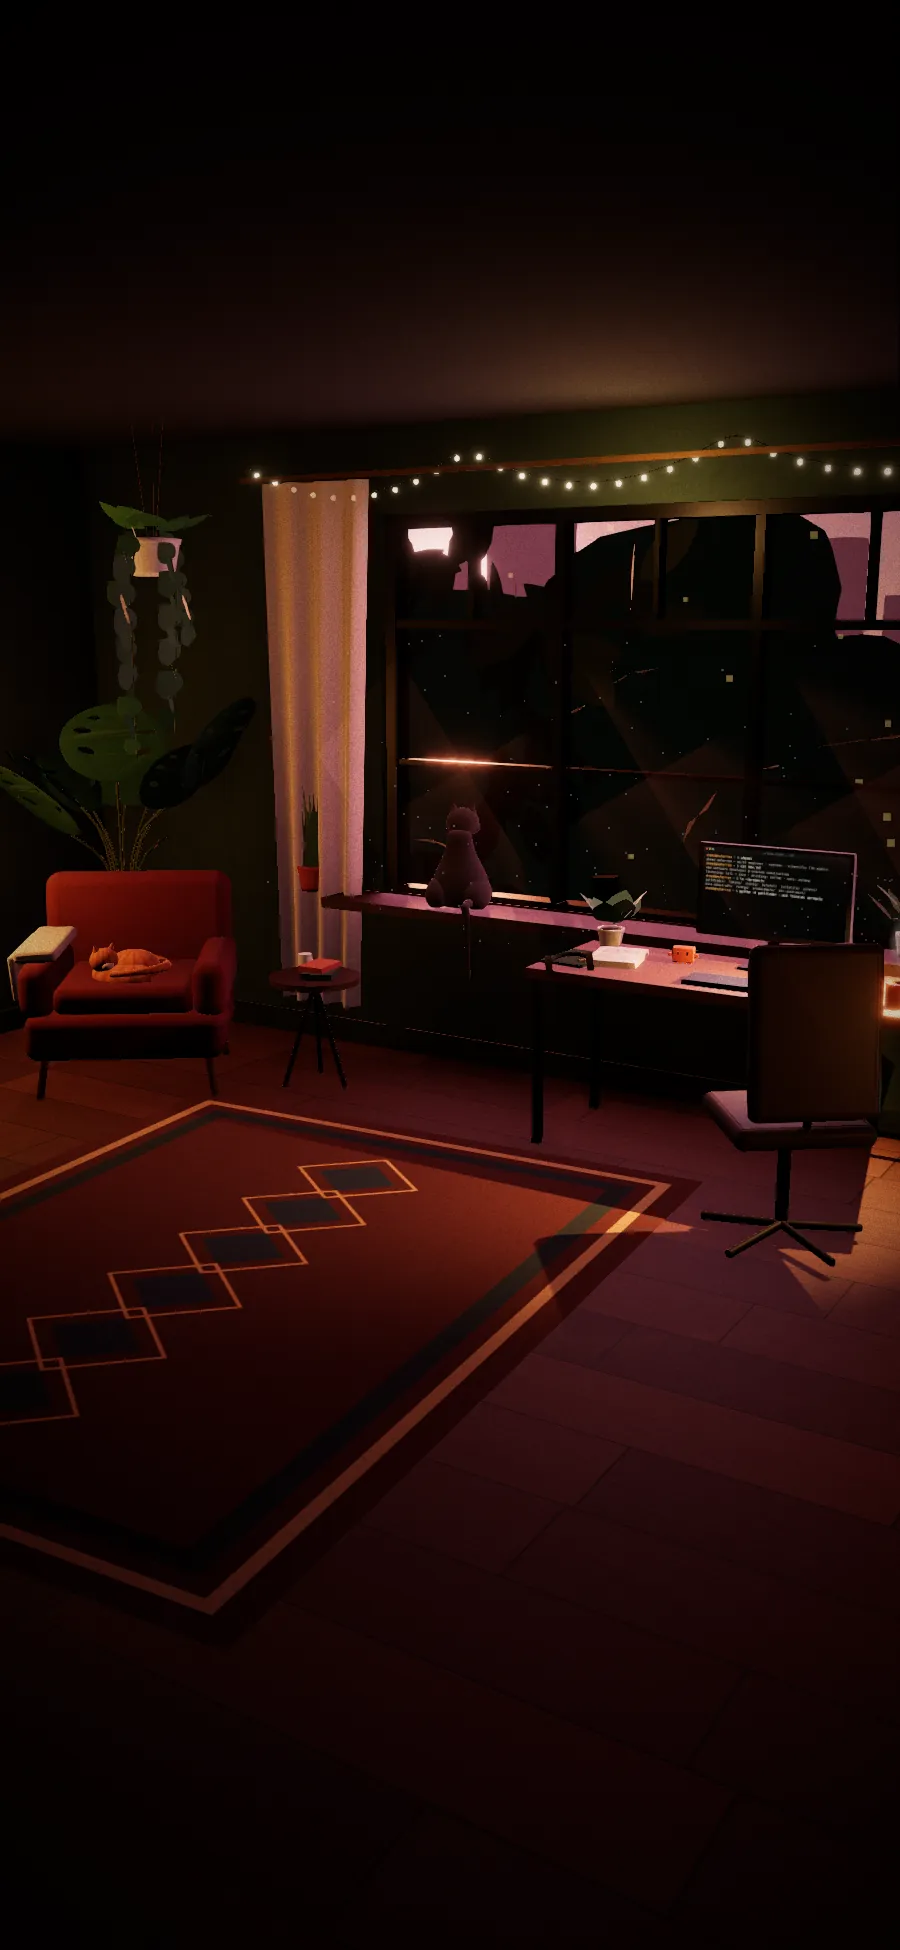
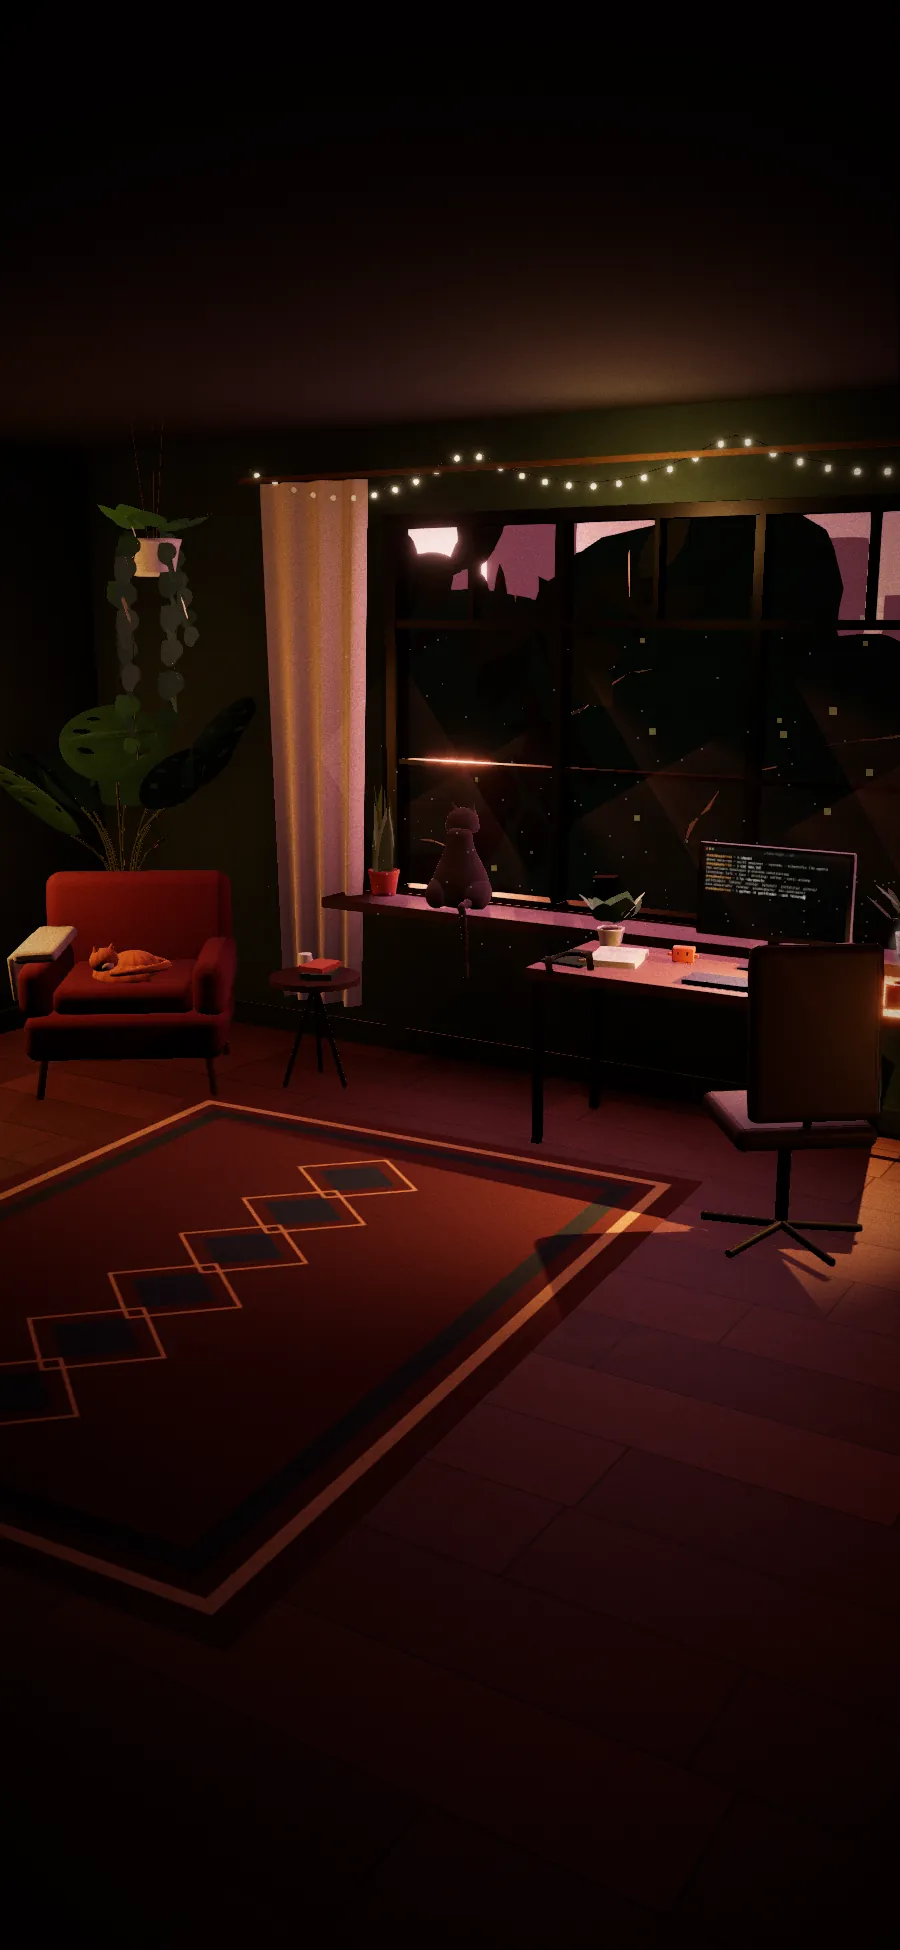
String lights toggle, radio card opposite the panel, headphones on the desk, plainer meta and away titles

diff --git a/src/scene/StringLights.jsx b/src/scene/StringLights.jsx
@@ -2,6 +2,8 @@ import { useLayoutEffect, useMemo, useRef } from 'react'
 import { useFrame } from '@react-three/fiber'
 import { CatmullRomCurve3, Color, Object3D, TubeGeometry, Vector3 } from 'three'
 import { useLive } from './live'
+import Hotspot from './Hotspot'
+import { lampLevel, toggleLamp } from './lamps'
 
 const dummy = new Object3D()
 
@@ -31,6 +33,7 @@ function Strand({ anchors, sag, bulbs, seed }) {
   const ref = useRef()
   const curve = useMemo(() => strand(anchors, sag), [anchors, sag])
   const wire = useMemo(() => new TubeGeometry(curve, 160, 0.0025, 4), [curve])
+  const hit = useMemo(() => new TubeGeometry(curve, 60, 0.07, 6), [curve])
   const items = useMemo(() => Array.from({ length: bulbs }, (_, i) => ({ t: (i + 0.5) / bulbs, phase: (i * 1.7 + seed) % 6.28, speed: 0.6 + ((i * 7) % 5) * 0.25 })), [bulbs, seed])
   const tmp = useMemo(() => new Vector3(), [])
   const color = useMemo(() => new Color(), [])
@@ -46,7 +49,8 @@ function Strand({ anchors, sag, bulbs, seed }) {
   }, [items, curve, tmp])
   useFrame(() => {
     const t = live.time
-    const base = 0.35 + live.lamps * 2.6
+    const on = lampLevel('lampStrings')
+    const base = 0.05 + on * (0.3 + live.lamps * 2.6)
     items.forEach((it, i) => {
       const tw = 0.75 + 0.25 * Math.sin(t * it.speed + it.phase)
       color.setRGB(1, 0.72, 0.4).multiplyScalar(base * tw)
@@ -63,16 +67,17 @@ function Strand({ anchors, sag, bulbs, seed }) {
         <sphereGeometry args={[0.014, 10, 8]} />
         <meshBasicMaterial toneMapped={false} />
       </instancedMesh>
+      <mesh geometry={hit} visible={false} />
     </group>
   )
 }
 
 export default function StringLights() {
   return (
-    <group>
+    <Hotspot id="lampStrings" action={() => toggleLamp('lampStrings')}>
       {STRANDS.map((s, i) => (
         <Strand key={i} {...s} seed={i * 3.1} />
       ))}
-    </group>
+    </Hotspot>
   )
 }

diff --git a/index.html b/index.html
@@ -28,24 +28,24 @@
 
     <meta property="og:type" content="profile" />
     <meta property="og:site_name" content="muharram.dev" />
-    <meta property="og:title" content="ahmed muharram's room" />
+    <meta property="og:title" content="ahmed muharram" />
     <meta
       property="og:description"
-      content="i build llm agents and search systems. come hang out in my little room on the internet, pet the cats, put on some lofi, and look around my projects, research and writing."
+      content="ai/ml engineer in cairo. i build llm agents and search systems, and studied computer science at penn."
     />
     <meta property="og:url" content="https://muharram.dev/" />
     <meta property="og:image" content="https://muharram.dev/og-image.png" />
     <meta property="og:image:width" content="1200" />
     <meta property="og:image:height" content="630" />
-    <meta property="og:image:alt" content="a cat sitting on a sunny windowsill in a cozy lofi room, with the text ahmed muharram" />
+    <meta property="og:image:alt" content="ahmed muharram, with a cat sitting on a sunny windowsill" />
     <meta property="profile:first_name" content="Ahmed" />
     <meta property="profile:last_name" content="Muharram" />
 
     <meta name="twitter:card" content="summary_large_image" />
-    <meta name="twitter:title" content="ahmed muharram's room" />
+    <meta name="twitter:title" content="ahmed muharram" />
     <meta
       name="twitter:description"
-      content="i build llm agents and search systems. come hang out in my little room on the internet."
+      content="ai/ml engineer in cairo. i build llm agents and search systems."
     />
     <meta name="twitter:image" content="https://muharram.dev/og-image.png" />
 

diff --git a/src/App.jsx b/src/App.jsx
@@ -1,7 +1,7 @@
 import { lazy, Suspense, useEffect, useState } from 'react'
 import Mobile from './ui/Mobile'
 import { ui } from './lib/store'
-import { PRESETS } from './lib/time'
+import { CITY, PRESETS, formatClock, zonedNow } from './lib/time'
 import { useSky } from './lib/useSky'
 import { setFavicon } from './lib/favicon'
 
@@ -33,7 +33,11 @@ function detect() {
 const timeParam = new URLSearchParams(window.location.search).get('time')
 if (PRESETS.some((p) => p.id === timeParam)) ui.set({ timeMode: timeParam })
 
-const AWAY = ['come back, the cats miss you', 'the kettle is still on', 'still here, still lofi']
+function awayTitle(n) {
+  if (ui.get().radio) return '♪ the radio is still on · ahmed muharram'
+  if (n % 2) return `${formatClock(zonedNow().decimal)} in ${CITY.toLowerCase()} · ahmed muharram`
+  return 'the cats are napping · ahmed muharram'
+}
 
 function useTabDressing() {
   const phase = useSky().state.phase
@@ -44,7 +48,7 @@ function useTabDressing() {
     const change = () => {
       if (document.hidden) {
         saved = document.title
-        document.title = AWAY[n++ % AWAY.length]
+        document.title = awayTitle(n++)
       } else if (saved) {
         document.title = saved
         saved = null

diff --git a/src/data/site.js b/src/data/site.js
@@ -39,7 +39,7 @@ export const ABOUT = {
   paragraphs: [
     "i finished my bachelor's and master's in computer and information science at penn in may 2026. i went there on the onsi sawiris scholarship.",
     "most of my work sits where ai meets regular systems engineering. i care a lot about software being reliable and easy to understand for the people who actually use it.",
-    "lately that has meant tool-calling llm agents for scientific work, and ai products that keep people's data private. i've done both research and industry work, and i like teams that sweat the details but still aim big.",
+    "lately that has meant tool-calling llm agents for scientific work, and ai products that keep people's data private. i've worked in both research and industry, and i like working with people who care about doing things well.",
   ],
   facts: [
     { k: 'now', v: 'r&d software developer at orascom construction' },

diff --git a/src/scene/Lights.jsx b/src/scene/Lights.jsx
@@ -47,7 +47,7 @@ export default function Lights({ quality }) {
     windowFill.current.intensity = 2.5 + live.ambientIntensity * 9
     deskLamp.current.intensity = (6 + lamps * 22) * lampLevel('lampDesk')
     floorLamp.current.intensity = lamps * 9 * lampLevel('lampFloor')
-    strings.current.intensity = 0.4 + lamps * 2.2
+    strings.current.intensity = (0.4 + lamps * 2.2) * lampLevel('lampStrings')
     monitor.current.intensity = 1.6 + lamps * 1.2
     pc.current.intensity = 0.25 + lamps * 0.5
     gl.toneMappingExposure = live.exposure

diff --git a/src/scene/Clawd.jsx b/src/scene/Clawd.jsx
@@ -5,7 +5,7 @@ import { MeshStandardMaterial } from 'three'
 import Hotspot from './Hotspot'
 import { chirp } from '../lib/audio'
 
-const LINES = ['hi! ✦', 'shipping it?', 'the cats approve', 'one more commit…', 'lofi + code', 'nice room :)', 'thanks for having me']
+const LINES = ['hi! ✦', 'shipping it?', 'the cats approve', 'one more commit…', 'lofi + code', 'nice room :)', 'i live here now']
 
 export default function Clawd({ position = [0.34, 0.78, -2.48], rotation = [0, 0.25, 0], scale = 1 }) {
   const body = useRef()

diff --git a/src/scene/Desk.jsx b/src/scene/Desk.jsx
@@ -191,7 +191,7 @@ function Headphones() {
   const m = useMaterials()
   const pad = useMemo(() => new MeshStandardMaterial({ color: '#2b2622', roughness: 0.8 }), [])
   return (
-    <group position={[-0.02, TOP + 0.03, -2.12]} rotation={[-Math.PI / 2 + 0.25, 0, 0.5]}>
+    <group position={[-0.04, TOP + 0.046, -2.15]} rotation={[-Math.PI / 2 + 0.25, 0, 0.5]}>
       <mesh material={m.plastic} castShadow>
         <torusGeometry args={[0.085, 0.009, 8, 24, Math.PI]} />
       </mesh>

diff --git a/src/ui/Chrome.jsx b/src/ui/Chrome.jsx
@@ -55,7 +55,7 @@ export function HoverLabel() {
   }, [])
   return (
     <div ref={ref} className={`hover-label${hovered ? ' is-visible' : ''}`} aria-hidden="true">
-      {hovered ? (HOTSPOT_LABELS[hovered] === 'lamp' ? `turn ${lampsOff[hovered] ? 'on' : 'off'} the lamp` : HOTSPOT_LABELS[hovered]) : ''}
+      {hovered ? (hovered.startsWith('lamp') ? `turn ${lampsOff[hovered] ? 'on' : 'off'} ${HOTSPOT_LABELS[hovered]}` : HOTSPOT_LABELS[hovered]) : ''}
     </div>
   )
 }

diff --git a/src/styles/app.css b/src/styles/app.css
@@ -266,7 +266,7 @@ h1 span {
   align-items: center;
   justify-content: space-between;
   padding: 22px 28px;
-  z-index: 20;
+  z-index: 40;
   pointer-events: none;
 }
 
@@ -456,9 +456,10 @@ h1 span {
   animation: pop 0.3s var(--ease);
 }
 
-.desktop.section-contact .radio-card {
-  bottom: auto;
-  top: 78px;
+.desktop.section-about .radio-card,
+.desktop.section-research .radio-card {
+  right: auto;
+  left: 24px;
 }
 
 .radio-video {

diff --git a/src/scene/hotspots.js b/src/scene/hotspots.js
@@ -13,10 +13,11 @@ export const HOTSPOT_LABELS = {
   cat: 'pet the cat',
   catSill: 'pet the cat',
   clawd: 'say hi to clawd',
-  lampDesk: 'lamp',
-  lampFloor: 'lamp',
-  lampTable: 'lamp',
-  lampShelf: 'lamp',
+  lampDesk: 'the lamp',
+  lampFloor: 'the lamp',
+  lampTable: 'the lamp',
+  lampShelf: 'the lamp',
+  lampStrings: 'the string lights',
 }
 
 export function activate(id, action) {
